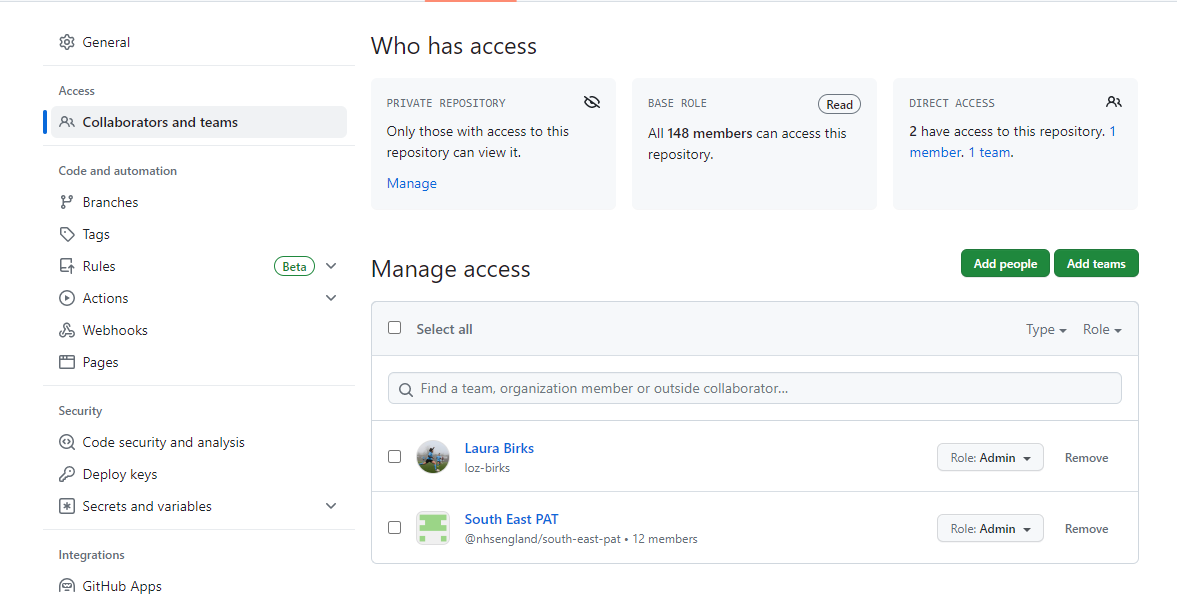
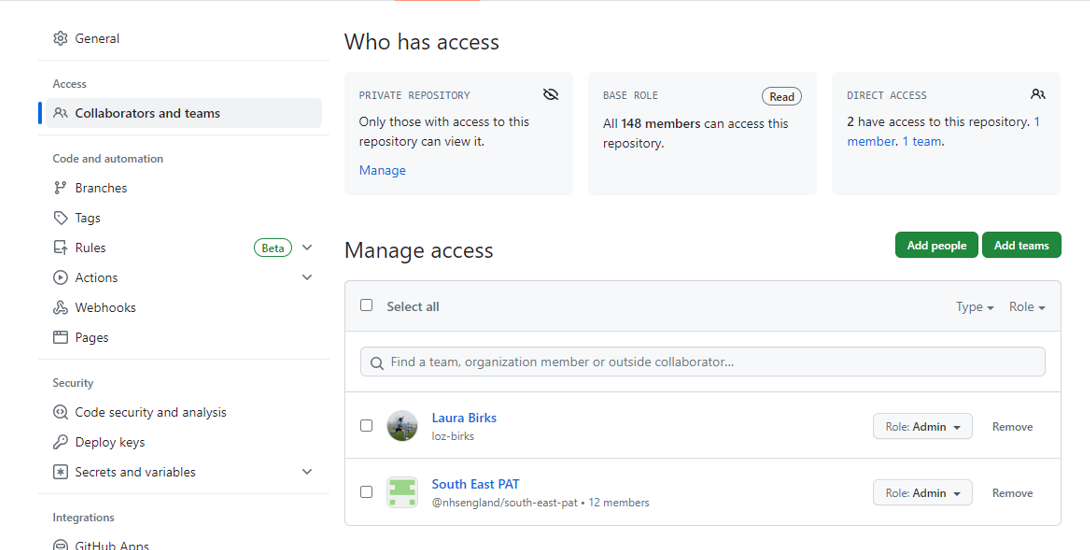
forgot to render

diff --git a/docs/index.html b/docs/index.html
@@ -207,11 +207,11 @@ ul.task-list{list-style: none;}
 <ol type="1">
 <li>Navigate to the repo and click the <strong>Settings</strong> button</li>
 </ol>
-<p><img src="pics/repo-settings.PNG" class="img-fluid"></p>
+<p><img src="pics/repo-settings.png" class="img-fluid"></p>
 <ol start="2" type="1">
 <li>Within the <strong>Access</strong> section, click <strong>Collaborators and teams</strong> (top left), and click <strong>Add teams</strong></li>
 </ol>
-<p><img src="pics/collab-and-teams.PNG" class="img-fluid"></p>
+<p><img src="pics/collab-and-teams.png" class="img-fluid"></p>
 <ol start="3" type="1">
 <li>Finally search for and select South East PAT</li>
 </ol>
